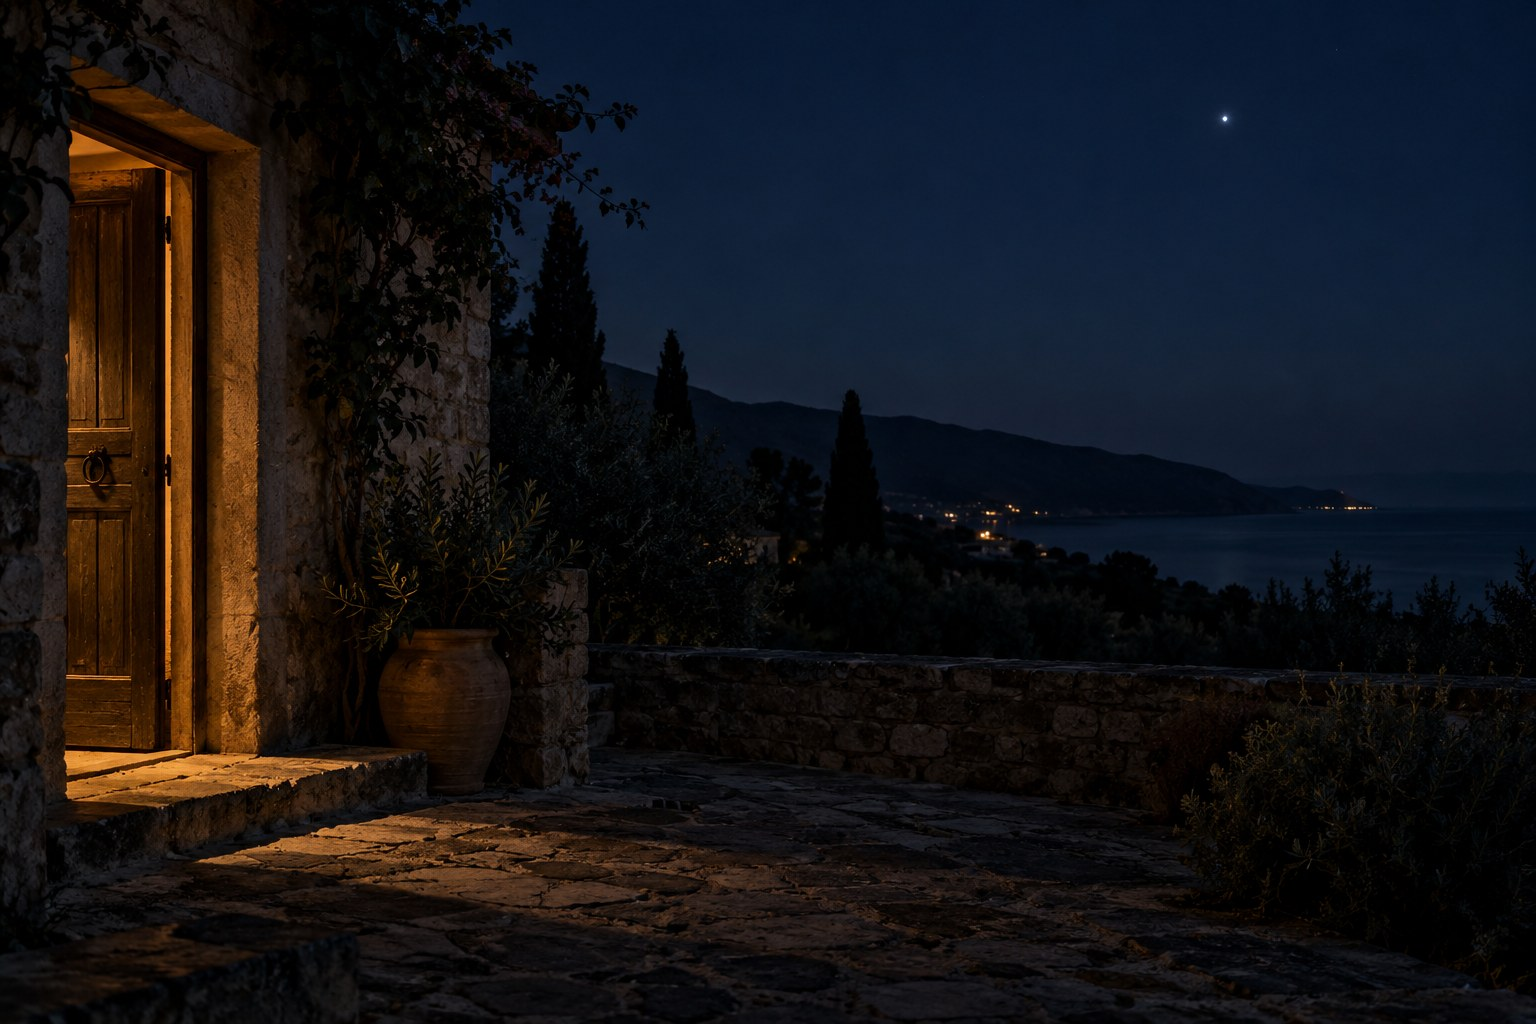
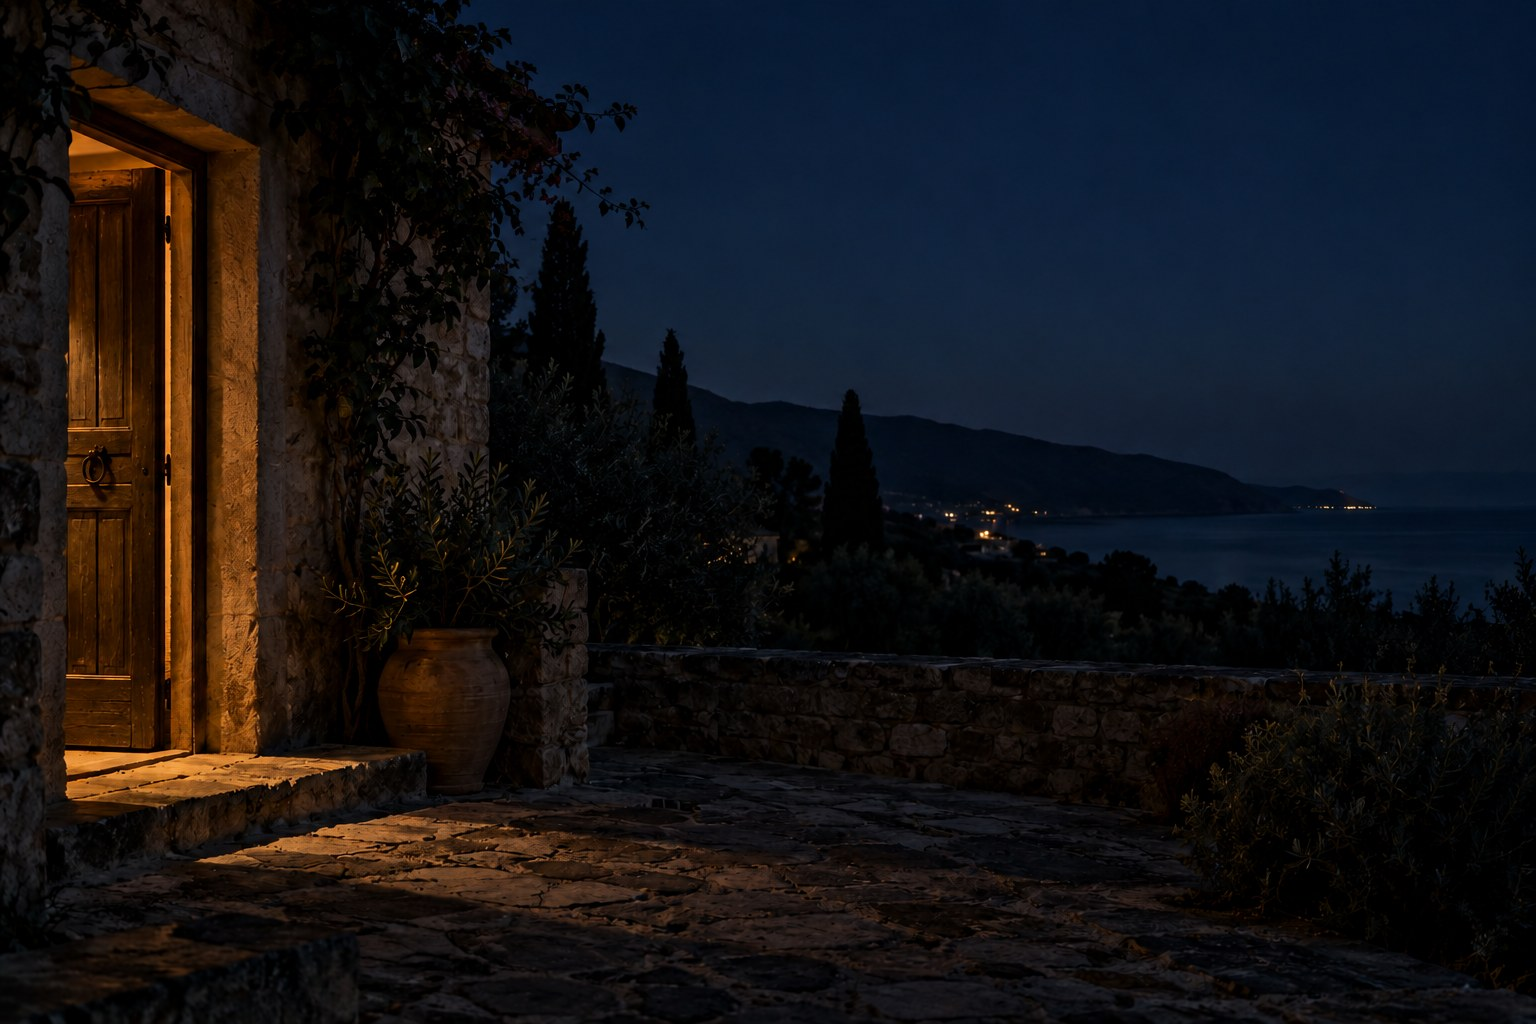
Start the visible star at the upper center and reveal the yin-yang moon simultaneously as it approaches

diff --git a/estrella/index.html b/estrella/index.html
@@ -8,7 +8,7 @@
 <title>Siguiendo una estrella · flag</title>
 <script>
 if(window.parent===window && new URLSearchParams(location.search).get('music')!=='parent'){
-location.replace('../elegia-breve/?v=luna-20261006#estrella');
+location.replace('../elegia-breve/?v=estrella-simultanea-20261006#estrella');
 }
 </script>
 <style>
@@ -51,30 +51,30 @@ footer{padding:0 6vw 30px;max-width:1160px;margin:auto;color:var(--muted);font:1
 @media(max-width:760px){.final-stanza{margin-top:48px}}
 .detail-background,.detail-background img,body::before,body::after{animation:none!important;transform:none!important}
 .world-comet{position:absolute;inset:0;z-index:2;opacity:0;pointer-events:none;overflow:visible}
-.world-comet.is-active{animation:cometField 6.4s linear forwards}
-.world-comet-core,.world-comet-tail{position:absolute;left:-22%;top:30%;pointer-events:none;will-change:left,top,transform,opacity}
+.world-comet.is-active{animation:cometField 12.8s linear forwards}
+.world-comet-core,.world-comet-tail{position:absolute;left:50%;top:5%;pointer-events:none;will-change:left,top,transform,opacity}
 .world-comet-core{width:10px;height:10px;border-radius:50%;background:rgba(255,249,231,.99);box-shadow:0 0 10px rgba(255,249,231,.98),0 0 26px rgba(255,239,194,.78),0 0 62px rgba(255,224,150,.38);filter:blur(.12px);transform:translate(-50%,-50%) scale(.74)}
-.world-comet-tail{width:340px;height:3px;transform-origin:right center;transform:translate(-100%,-50%) rotate(-12deg) scaleX(.12);background:linear-gradient(to left,rgba(255,247,218,0) 0%,rgba(255,244,210,.10) 15%,rgba(255,239,196,.30) 38%,rgba(255,233,176,.72) 70%,rgba(255,247,233,.96) 100%);border-radius:999px;filter:blur(.7px);box-shadow:0 0 12px rgba(255,236,184,.25),0 0 34px rgba(255,223,152,.16)}
-.world-comet.is-active .world-comet-core{animation:cometCore 6.4s cubic-bezier(.35,.02,.22,1) forwards}
-.world-comet.is-active .world-comet-tail{animation:cometTail 6.4s cubic-bezier(.35,.02,.22,1) forwards}
-@keyframes cometField{0%{opacity:0}8%{opacity:.16}18%{opacity:.72}46%{opacity:1}74%{opacity:.92}100%{opacity:0}}
+.world-comet-tail{width:340px;height:3px;transform-origin:right center;transform:translate(-100%,-50%) rotate(var(--comet-angle,12deg)) scaleX(.12);background:linear-gradient(to left,rgba(255,247,218,0) 0%,rgba(255,244,210,.10) 15%,rgba(255,239,196,.30) 38%,rgba(255,233,176,.72) 70%,rgba(255,247,233,.96) 100%);border-radius:999px;filter:blur(.7px);box-shadow:0 0 12px rgba(255,236,184,.25),0 0 34px rgba(255,223,152,.16)}
+.world-comet.is-active .world-comet-core{animation:cometCore 12.8s cubic-bezier(.35,.02,.22,1) forwards}
+.world-comet.is-active .world-comet-tail{animation:cometTail 12.8s cubic-bezier(.35,.02,.22,1) forwards}
+@keyframes cometField{0%{opacity:.85}8%{opacity:1}18%{opacity:1}46%{opacity:1}74%{opacity:.92}100%{opacity:0}}
 @keyframes cometCore{
-  0%{left:-22%;top:30%;transform:translate(-50%,-50%) scale(.72)}
-  14%{left:0%;top:28%;transform:translate(-50%,-50%) scale(.84)}
-  34%{left:28%;top:24%;transform:translate(-50%,-50%) scale(.94)}
-  56%{left:58%;top:19%;transform:translate(-50%,-50%) scale(1)}
-  78%{left:86%;top:13%;transform:translate(-50%,-50%) scale(.96)}
-  90%{left:101%;top:10%;transform:translate(-50%,-50%) scale(.88)}
-  100%{left:118%;top:8%;transform:translate(-50%,-50%) scale(.72)}
+  0%{left:50%;top:5%;transform:translate(-50%,-50%) scale(.72)}
+  14%{left:54%;top:6%;transform:translate(-50%,-50%) scale(.84)}
+  34%{left:62%;top:8.5%;transform:translate(-50%,-50%) scale(.94)}
+  56%{left:72%;top:11.5%;transform:translate(-50%,-50%) scale(1)}
+  78%{left:82%;top:14%;transform:translate(-50%,-50%) scale(.96)}
+  90%{left:86%;top:15%;transform:translate(-50%,-50%) scale(.88)}
+  100%{left:90%;top:16%;transform:translate(-50%,-50%) scale(.72)}
 }
 @keyframes cometTail{
-  0%{left:-22%;top:30%;opacity:0;transform:translate(-100%,-50%) rotate(-12deg) scaleX(.12)}
-  12%{left:0%;top:28%;opacity:.42;transform:translate(-100%,-50%) rotate(-12deg) scaleX(.34)}
-  34%{left:28%;top:24%;opacity:.78;transform:translate(-100%,-50%) rotate(-12deg) scaleX(.72)}
-  56%{left:58%;top:19%;opacity:.96;transform:translate(-100%,-50%) rotate(-12deg) scaleX(1)}
-  78%{left:86%;top:13%;opacity:.90;transform:translate(-100%,-50%) rotate(-12deg) scaleX(1.10)}
-  90%{left:101%;top:10%;opacity:.62;transform:translate(-100%,-50%) rotate(-12deg) scaleX(1.02)}
-  100%{left:118%;top:8%;opacity:0;transform:translate(-100%,-50%) rotate(-12deg) scaleX(.78)}
+  0%{left:50%;top:5%;opacity:0;transform:translate(-100%,-50%) rotate(var(--comet-angle,12deg)) scaleX(.12)}
+  12%{left:54%;top:6%;opacity:.42;transform:translate(-100%,-50%) rotate(var(--comet-angle,12deg)) scaleX(.34)}
+  34%{left:62%;top:8.5%;opacity:.78;transform:translate(-100%,-50%) rotate(var(--comet-angle,12deg)) scaleX(.72)}
+  56%{left:72%;top:11.5%;opacity:.96;transform:translate(-100%,-50%) rotate(var(--comet-angle,12deg)) scaleX(1)}
+  78%{left:82%;top:14%;opacity:.90;transform:translate(-100%,-50%) rotate(var(--comet-angle,12deg)) scaleX(1.10)}
+  90%{left:86%;top:15%;opacity:.62;transform:translate(-100%,-50%) rotate(var(--comet-angle,12deg)) scaleX(1.02)}
+  100%{left:90%;top:16%;opacity:0;transform:translate(-100%,-50%) rotate(var(--comet-angle,12deg)) scaleX(.78)}
 }
 
 
@@ -83,23 +83,23 @@ footer{padding:0 6vw 30px;max-width:1160px;margin:auto;color:var(--muted);font:1
 .world-final-moon{position:absolute;left:82%;top:14%;width:clamp(82px,9vw,122px);aspect-ratio:1;border-radius:50%;z-index:3;opacity:0;overflow:hidden;background:#08101e;transform:translate(-50%,-50%) rotate(-7deg);box-shadow:0 0 18px rgba(215,225,249,.22),0 0 48px rgba(215,225,249,.12);transition:opacity 4s ease,transform 14s ease,box-shadow 20s ease}
 .is-awake .world-final-moon{opacity:1;transform:translate(-50%,-50%) rotate(0)}
 .is-home .world-final-moon{box-shadow:0 0 22px rgba(244,222,176,.3),0 0 65px rgba(255,220,157,.17)}
-.final-crescent{position:absolute;inset:0;border-radius:50%;opacity:1;background:radial-gradient(circle at 40% 42%,#fff 0%,#faf9ee 58%,#e1e5ef 100%);transition:opacity 12s ease}
+.final-crescent{position:absolute;inset:0;border-radius:50%;opacity:1;background:radial-gradient(circle at 40% 42%,#fff 0%,#faf9ee 58%,#e1e5ef 100%);transition:opacity 9.5s ease}
 .final-crescent::after{content:"";position:absolute;top:-8%;bottom:-8%;left:42%;right:-34%;border-radius:50%;background:#08101e}
 .world-final-moon svg{position:absolute;inset:0;width:100%;height:100%;display:block}
-.yin-body,.yin-outline{opacity:0;transition:opacity 12s ease}
-.yin-dots{opacity:0;transition:opacity 10s ease 6s}
-.yin-dots circle{transform-box:fill-box;transform-origin:center;transform:scale(.46);transition:transform 10s ease 6s}
+.yin-body,.yin-outline{opacity:0;transition:opacity 9.5s ease}
+.yin-dots{opacity:0;transition:opacity 8.7s ease .8s}
+.yin-dots circle{transform-box:fill-box;transform-origin:center;transform:scale(.46);transition:transform 8.7s ease .8s}
 .is-home .final-crescent{opacity:0}
 .is-home .yin-body,.is-home .yin-outline,.is-home .yin-dots{opacity:1}
 .is-home .yin-dots circle{transform:scale(1)}
 .celestial-scene.is-resetting *{transition:none!important;animation:none!important}
-@media(max-width:760px){.world-comet-core{width:9px;height:9px}.world-comet-tail{width:250px;height:2.5px}.world-final-moon{width:82px}}
+@media(max-width:760px){.world-comet{--comet-angle:30deg}.world-comet-core{width:9px;height:9px}.world-comet-tail{width:250px;height:2.5px}.world-final-moon{width:82px}}
 @media(prefers-reduced-motion:reduce){.world-comet{display:none}.celestial-scene *{transition:none!important;animation:none!important}.world-final-moon{opacity:1;transform:translate(-50%,-50%)}.final-crescent{opacity:0}.yin-body,.yin-outline,.yin-dots{opacity:1}.yin-dots circle{transform:scale(1)}}
 
 </style>
 </head>
 <body>
-<div class="detail-background" aria-hidden="true"><img src="umbral.jpg" alt="" decoding="async"><div class="celestial-scene" id="celestialScene"><div class="world-comet" id="worldComet"><span class="world-comet-tail"></span><span class="world-comet-core"></span></div><div class="world-final-moon" id="homeMoon">
+<div class="detail-background" aria-hidden="true"><img src="umbral.jpg?v=20261006-sin-estrella-fija" alt="" decoding="async"><div class="celestial-scene" id="celestialScene"><div class="world-comet" id="worldComet"><span class="world-comet-tail"></span><span class="world-comet-core"></span></div><div class="world-final-moon" id="homeMoon">
       <span class="final-crescent"></span>
       <svg viewBox="0 0 100 100" aria-hidden="true">
         <defs><clipPath id="taijituClip"><circle cx="50" cy="50" r="49"/></clipPath></defs>
@@ -172,25 +172,24 @@ footer{padding:0 6vw 30px;max-width:1160px;margin:auto;color:var(--muted);font:1
 const celestialScene=document.getElementById('celestialScene');
 const worldComet=document.getElementById('worldComet');
 let celestialTimers=[];
-function beginCelestialJourney(delay=8500){
+function beginCelestialJourney(delay=7200){
  celestialTimers.forEach(clearTimeout);celestialTimers=[];
  celestialScene.classList.add('is-resetting');
  celestialScene.classList.remove('is-awake','is-home');worldComet.classList.remove('is-active');
  void celestialScene.offsetWidth;
  celestialScene.classList.remove('is-resetting');
  if(window.matchMedia?.('(prefers-reduced-motion: reduce)')?.matches){celestialScene.classList.add('is-awake','is-home');return;}
- celestialTimers=[
-  setTimeout(()=>celestialScene.classList.add('is-awake'),delay),
-  setTimeout(()=>celestialScene.classList.add('is-home'),delay+3000),
-  setTimeout(()=>worldComet.classList.add('is-active'),delay+15000)
- ];
+ celestialTimers=[setTimeout(()=>{
+  worldComet.classList.add('is-active');
+  celestialScene.classList.add('is-awake','is-home');
+ },delay)];
 }
 beginCelestialJourney();
 const detailBackground=document.querySelector('.detail-background');
 const detailPhoto=new Image();
 const clarifyDetail=()=>{requestAnimationFrame(()=>requestAnimationFrame(()=>{setTimeout(()=>{detailBackground.classList.add('is-clear');document.body.classList.add('detail-clear')},350)}));};
 detailPhoto.addEventListener('load',clarifyDetail,{once:true});
-detailPhoto.src='umbral.jpg';
+detailPhoto.src='umbral.jpg?v=20261006-sin-estrella-fija';
 const inheritedMusic=window.parent!==window && new URLSearchParams(location.search).get('music')==='parent';
 const musicLevel=document.getElementById('musicLevel'),musicEnabled=document.getElementById('musicEnabled'),musicValue=document.getElementById('musicValue'),musicStart=document.getElementById('musicStart');
 const sendMusic=type=>window.parent.postMessage({channel:'ceniciento-music-v1',type,level:Number(musicLevel.value)/100,enabled:musicEnabled.checked},location.origin);

diff --git a/elegia-breve/index.html b/elegia-breve/index.html
@@ -1225,7 +1225,7 @@
         voiceRequest++;clearTimeout(voiceTimer);voiceTimer=null;voicePending=false;voiceAllowed=false;
         recording.pause();nameAudio.pause();if(voiceDialog.open)voiceDialog.close();
         cenicientoFrame.hidden=false;
-        cenicientoFrame.src='../'+piece+'/?music=parent&v=20261006-luna-2042';
+        cenicientoFrame.src='../'+piece+'/?music=parent&v=20261006-estrella-simultanea-2046';
         if(window.location.hash!=='#'+piece)window.history.pushState({piece},'','#'+piece);
       };
       const openSonrisa=()=>openPoem('sonrisa');
